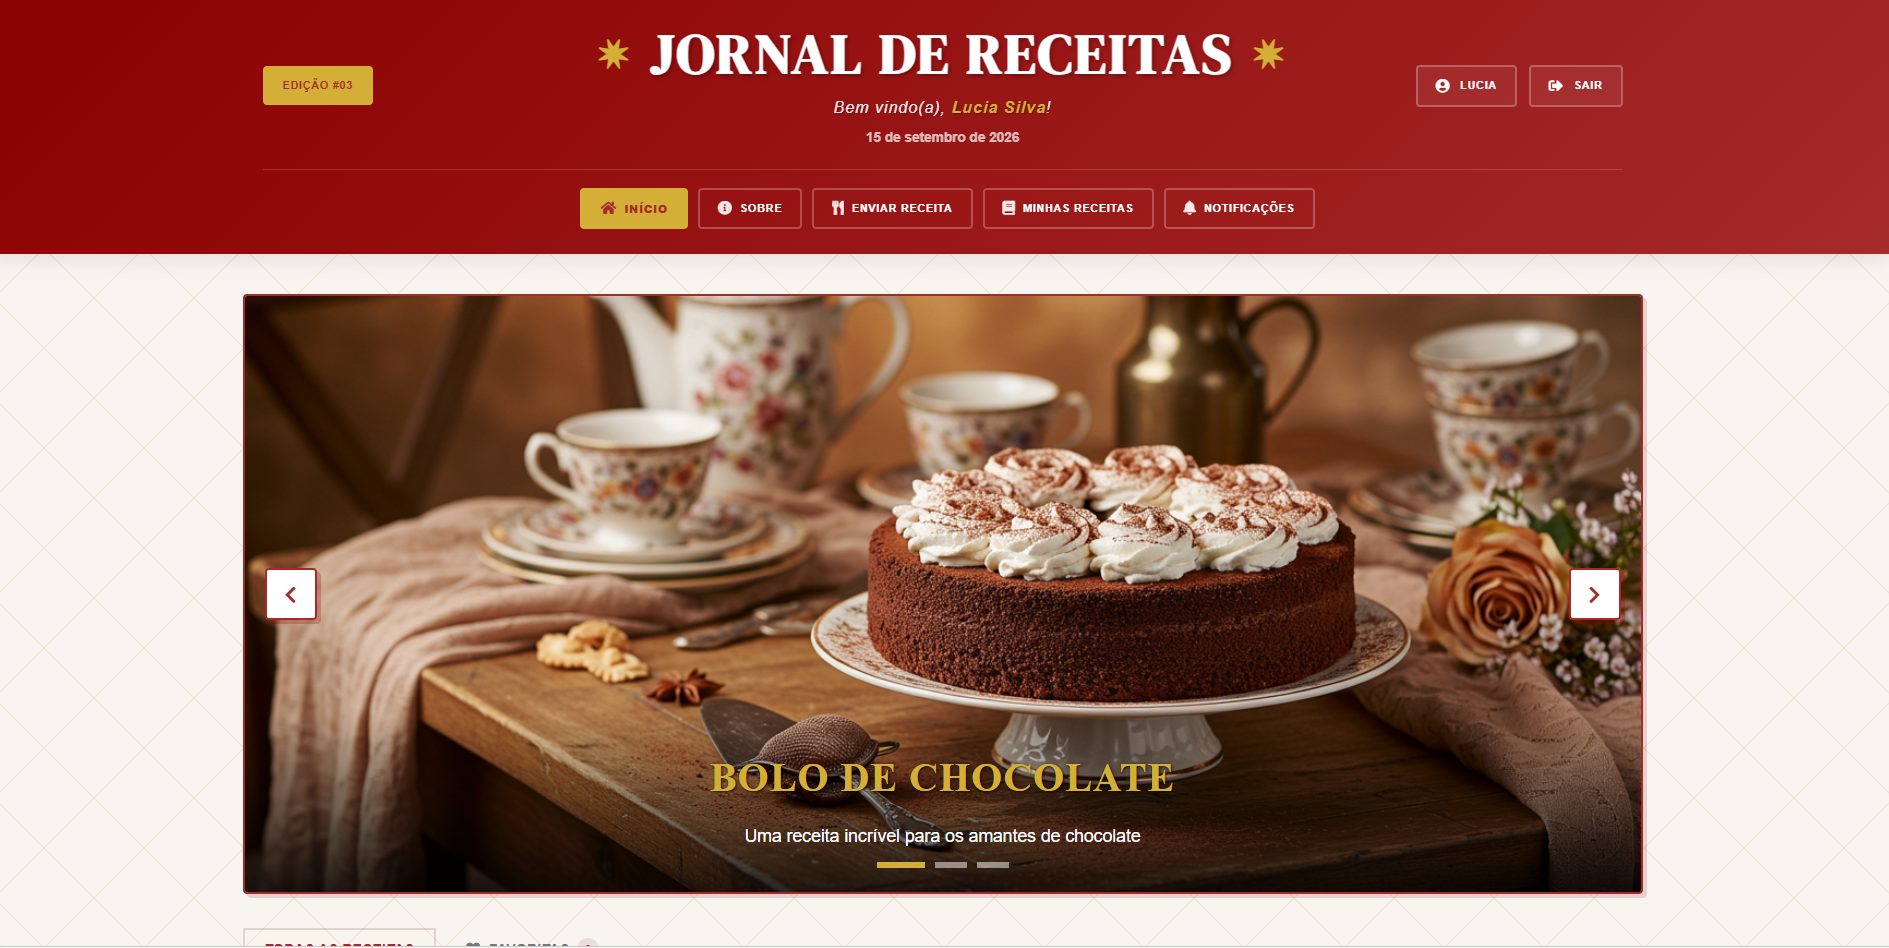
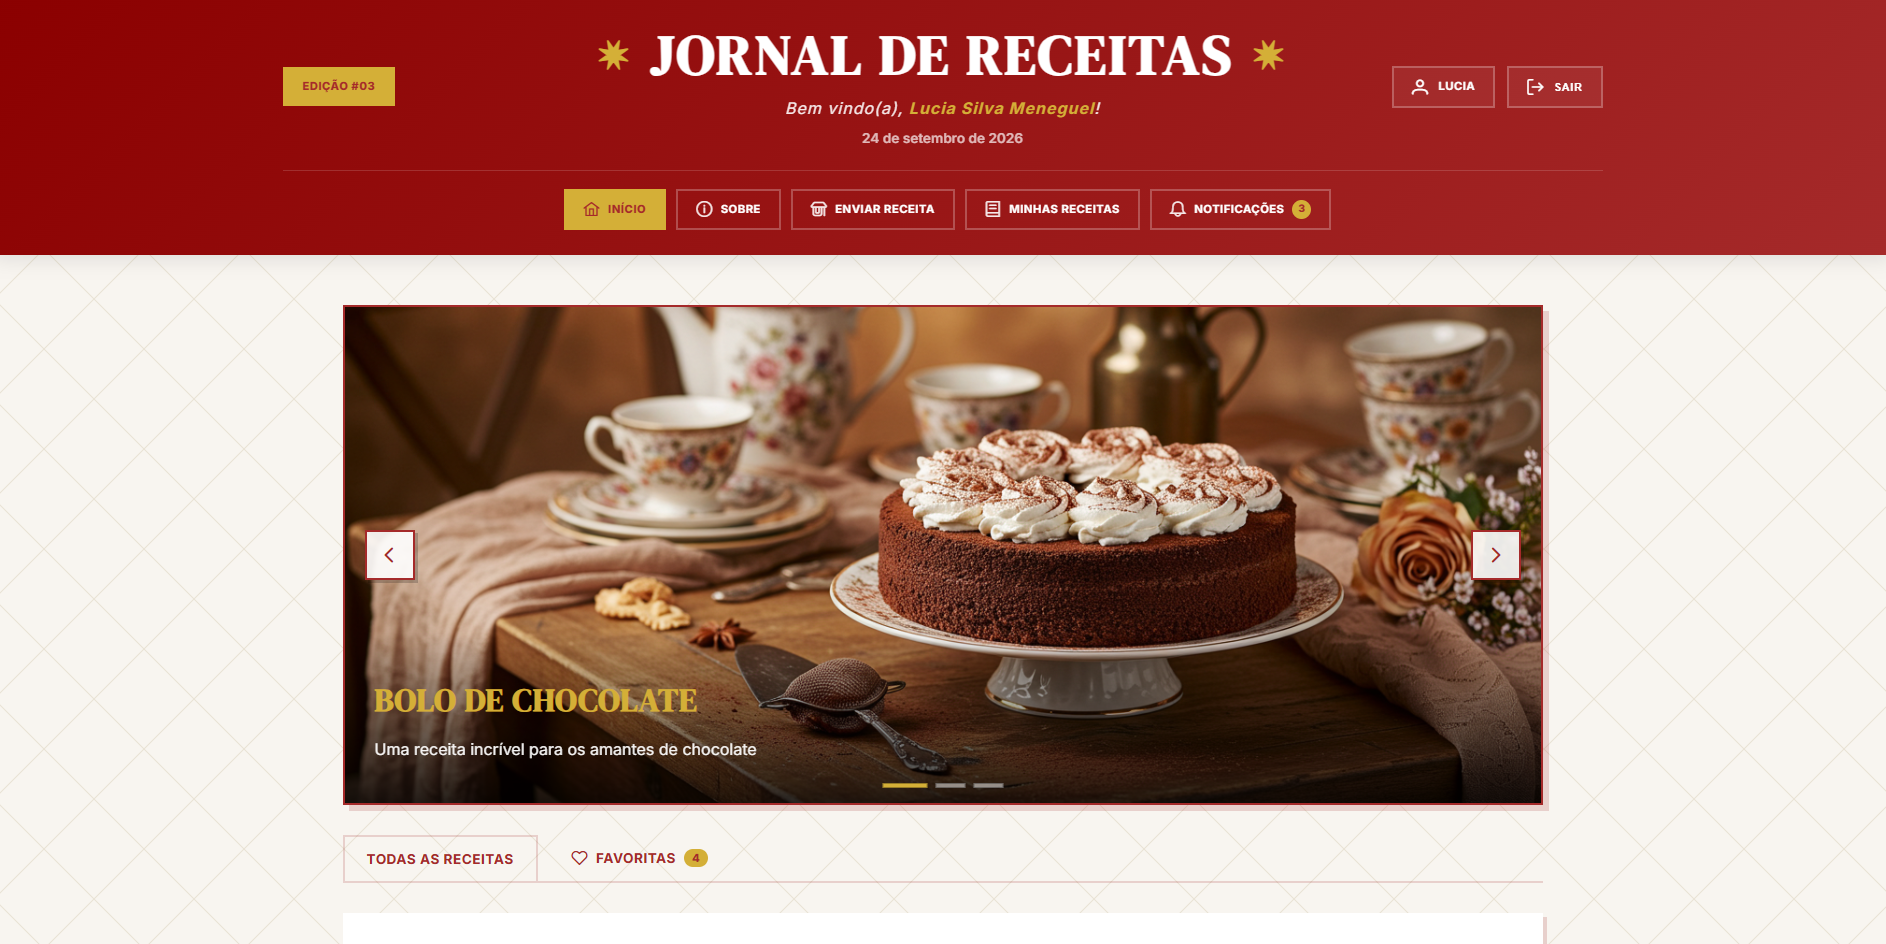
Ajuste na descrição do projeto 'Jornal de Receitas'

diff --git a/src/utils/translations.js b/src/utils/translations.js
@@ -118,7 +118,7 @@ const translations = {
     project_livros_desc: "E-commerce de livros com catálogo interativo, carrinho, checkout, avaliações, favoritos, cupons, chat em tempo real, rastreamento de pedidos, devoluções, dashboard administrativo e gestão de estoque.",
 
     project_receitas: "Jornal de Receitas",
-project_receitas_desc: "Plataforma completa para gerenciamento e compartilhamento de receitas, com autenticação de usuários, envio e aprovação de receitas, favoritos, upload de imagens, notificações e painel administrativo para gerenciamento de conteúdo.",
+    project_receitas_desc: "Plataforma completa para gerenciamento e compartilhamento de receitas. Conta com autenticação, envio e aprovação de receitas, favoritos, notificações em tempo real, busca dinâmica por ingredientes entre favoritas e painel administrativo completo",
 
 
     project_dashboard: "Dashboard de Vendas",

diff --git a/src/components/Projetos.jsx b/src/components/Projetos.jsx
@@ -161,7 +161,7 @@ const Portfolio = () => {
       image: "/assets/img/portfolio/Jornal-de-Receitas.png",
       github: "https://github.com/MatheusAbib/Jornal-de-Receitas",
       live: "https://jornal-de-receitas-b6ti.onrender.com",
-      tags: ["Java", "SpringBoot", "JavaScript", "MySQL"],
+      tags: ["Java", "React", "SpringBoot", "JavaScript", "MySQL"],
       priority: 1
     },
     {
